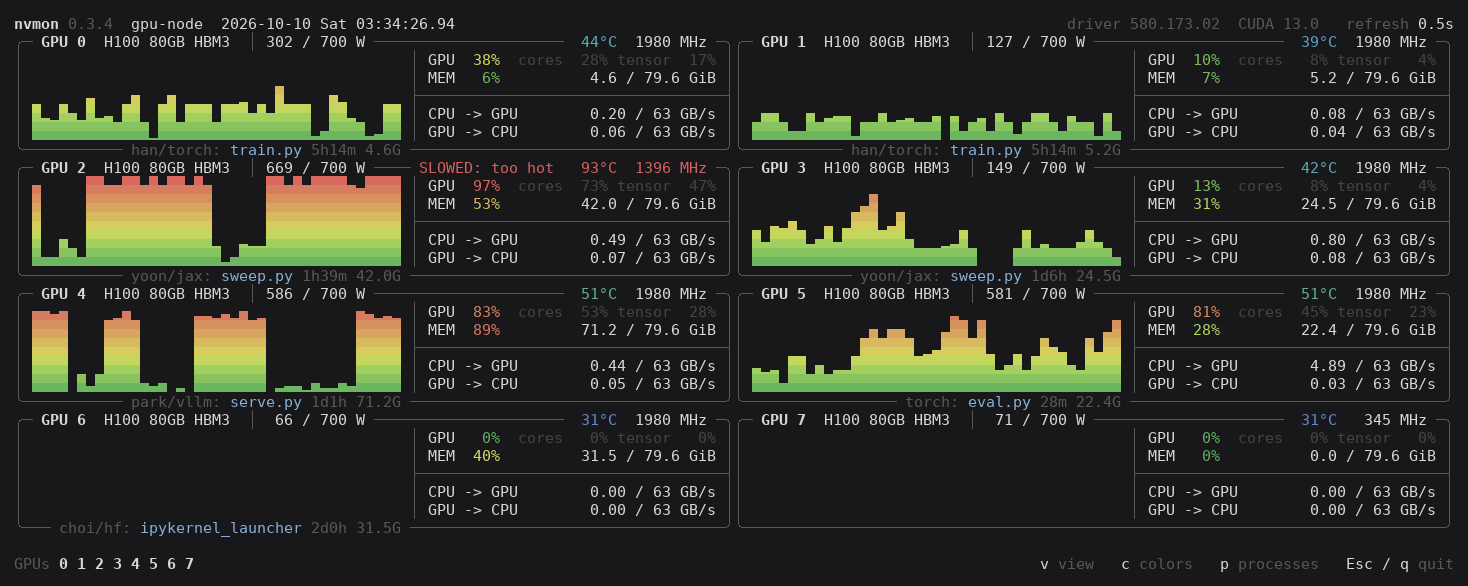
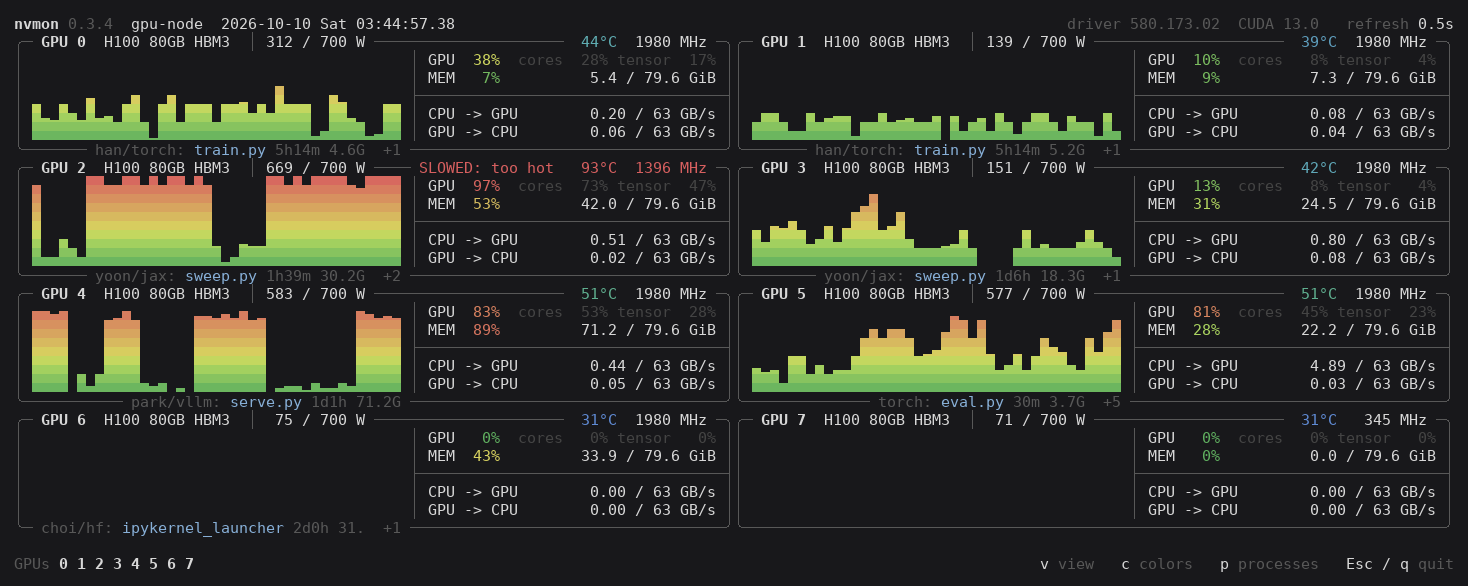
README's pictures: more processes on the GPUs; the themes on a GPU busy all along, as before
Each GPU of the made-up server holds several processes, each with its own memory (a checkpoint evaluated
beside a training run, a sweep's trials, an evaluation in shards, notebooks), so the processes view and the
list show what they are for. The themes are shown on a GPU busy from start to end, a wall of each theme's
colors, as the pictures before showed them.

diff --git a/docs/demo.py b/docs/demo.py
@@ -86,15 +86,15 @@ KINDS = {phases: (0.7, 0.45), blocks: (0.74, 0.48), wavering: (0.55, 0.28), burs
 
 class Scripted(nvmon.Gpu):
     """An H100 whose readings come from a script, not a driver: `kind` of work (with `shape`, its arguments)
-    using `mem` GiB for `procs`; `hot`: held back by heat."""
+    for `procs`, which hold their memory; `hot`: held back by heat."""
 
-    def __init__(self, index, kind, mem, procs, hot=False, **shape):
+    def __init__(self, index, kind, procs, hot=False, **shape):
         self.index, self.name = index, "H100 80GB HBM3"
         self.history, self.memory = deque(maxlen=nvmon.HISTORY), deque(maxlen=nvmon.HISTORY)
         self.sample = self.now = None
         self.pcie_max_gen, self.pcie_max_width, self.has_activity = 5, 16, True
         self.utils = kind(random.Random(index), **shape)
-        self.kind, self.mem, self.procs, self.hot = kind, mem, procs, hot
+        self.kind, self.procs, self.hot = kind, procs, hot
         self.rng, self.tick, self.temp = random.Random(index * 7 + 3), 0, 31.0
 
     def poll(self, detail=False):
@@ -103,40 +103,49 @@ class Scripted(nvmon.Gpu):
         # It warms and cools slowly; held back by heat, until it has cooled
         self.temp += (31 + (0.42 * u + 28 * self.hot) * (u > 0) - self.temp) * 0.06
         cores, tensor = KINDS[self.kind]
-        mem = self.mem + self.rng.uniform(-0.05, 0.05) if self.mem else 0.0
+        held = sum(p.mem for p in self.procs)
         busy = bool(self.procs)
         self.sample = nvmon.Sample(
             util=u, temp=round(self.temp), fan=None, power_limit=700,
             power=min(700, 72 + 6.2 * u + self.rng.uniform(-8, 8)) if busy else 70 + self.rng.uniform(-3, 3),
             clock=(1350 + self.rng.randint(-60, 60) if self.hot else 1980) if busy else 345,
-            mem_used=mem, mem_total=79.6, pcie_width=16,
+            mem_used=held + self.rng.uniform(-0.05, 0.05) if busy else 0.0, mem_total=79.6, pcie_width=16,
             tx=(0.02 + 0.06 * self.rng.random()) * 1e9 * (u > 0),
             rx=((6 if self.kind is wavering else 0.5) * u / 100 + 0.05 * self.rng.random()) * 1e9 * (u > 0),
             cores=cores * u + self.rng.uniform(0, 2) * (u > 0), tensor=tensor * u,
             slowdown=("SLOWED: too hot", nvmon.ALERT) if self.hot and busy else None,
-            processes=[p._replace(mem=mem / len(self.procs)) for p in self.procs],
-            process_util={p.pid: u / len(self.procs) for p in self.procs} if detail else None)
+            processes=self.procs,
+            process_util={p.pid: u * p.mem / held for p in self.procs} if detail else None)  # the bigger, the busier
 
 
-def proc(pid, name, owner, env, minutes, args, job=None, launcher=None):
-    """A process `minutes` old; `owner` None for ours."""
-    return nvmon.Process(pid, name, name + " " + args, 0, owner, env, Clock.now - 60 * minutes, job or pid, launcher)
+def proc(pid, name, owner, env, minutes, mem, args, job=None, launcher=None):
+    """A process `minutes` old holding `mem` GiB; `owner` None for ours."""
+    return nvmon.Process(pid, name, name + " " + args, mem, owner, env, Clock.now - 60 * minutes, job or pid,
+                         launcher)
 
 
 def server():
     """The eight GPUs, and the four the GIF shows: han's training on 0-1 (busy, then less so; low and broken),
-    yoon's sweeps on 2-3 (one in big blocks, on a GPU held back by heat); a model being served, our evaluation
-    waiting on its data loader, a notebook holding memory, and one idle."""
-    han = [proc(241801 + k, "train.py", "han", "torch", 312, "--config configs/train.yaml", 241800, "torchrun")
-           for k in range(2)]
-    gpus = [Scripted(0, phases, 4.6, han[:1], segments=[(190, 93, 6, 0.03), (200, 34, 9, 0.08)]),
-            Scripted(1, phases, 5.2, han[1:], segments=[(400, 20, 8, 0.15)]),
-            Scripted(2, blocks, 42.0, [proc(287700, "sweep.py", "yoon", "jax", 97, "--lr 1e-4")], hot=True),
-            Scripted(3, wavering, 24.5, [proc(270500, "sweep.py", "yoon", "jax", 1800, "--lr 3e-4")], center=35),
-            Scripted(4, bursts, 71.2, [proc(198733, "serve.py", "park", "vllm", 1520, "--model llama-3-8b")]),
-            Scripted(5, wavering, 22.4, [proc(325017, "eval.py", None, "torch", 26, "--config configs/eval.yaml")]),
-            Scripted(6, idle, 31.5, [proc(287390, "ipykernel_launcher", "choi", "hf", 2900, "-f kernel.json")]),
-            Scripted(7, idle, 0, [])]
+    with a checkpoint being evaluated and someone's notebook beside it; yoon's sweeps on 2-3 (one in big blocks,
+    on a GPU held back by heat); a model being served, our evaluation in shards waiting on its data loader,
+    notebooks holding memory, and one idle."""
+    han = [proc(241801 + k, "train.py", "han", "torch", 312, mem, "--config configs/train.yaml", 241800, "torchrun")
+           for k, mem in enumerate((4.6, 5.2))]
+    sweep = [proc(pid, "sweep.py", "yoon", "jax", minutes, mem, "--lr " + lr) for pid, minutes, mem, lr in
+             ((287700, 97, 30.2, "1e-4"), (287731, 41, 6.9, "2e-4"), (287765, 12, 4.9, "5e-4"),
+              (270500, 1800, 18.3, "3e-4"), (270544, 1680, 6.2, "3e-5"))]
+    checkpoint = proc(330112, "eval_ckpt.py", "han", "torch", 3, 0.8, "--ckpt runs/step_42000")
+    notebook = proc(301877, "ipykernel_launcher", "kang", "torch", 95, 2.1, "-f kernel-2.json")
+    shards = [proc(325017 + k, "eval.py", None, "torch", 28 - k // 2, 3.7, "--shard {}/6".format(k)) for k in range(6)]
+    gpus = [Scripted(0, phases, han[:1] + [checkpoint], segments=[(190, 93, 6, 0.03), (200, 34, 9, 0.08)]),
+            Scripted(1, phases, han[1:] + [notebook], segments=[(400, 20, 8, 0.15)]),
+            Scripted(2, blocks, sweep[:3], hot=True),
+            Scripted(3, wavering, sweep[3:], center=35),
+            Scripted(4, bursts, [proc(198733, "serve.py", "park", "vllm", 1520, 71.2, "--model llama-3-8b")]),
+            Scripted(5, wavering, shards),
+            Scripted(6, idle, [proc(287390, "ipykernel_launcher", "choi", "hf", 2900, 31.5, "-f kernel.json"),
+                               proc(287455, "ipykernel_launcher", "choi", "hf", 300, 2.4, "-f kernel-1.json")]),
+            Scripted(7, idle, [])]
     return gpus, (0, 1, 2, 3)
 
 
@@ -364,12 +373,12 @@ def main():
         setup(view)
         save(picture(view.screen(gpus, cols, rows, nvmon.header(cols, 0.5, driver), None), cols, rows, fonts), here,
              name)
-    # The themes on GPU 2's sweep, idle to full and back, without the heat to warn of
-    calm = Scripted(2, blocks, 42.0, gpus[2].procs)
+    # The themes on a GPU busy all along: its graph a wall of the theme's colors, bottom to top, ragged at the top
+    busy = Scripted(0, phases, gpus[0].procs, segments=[(TICKS, 88, 8, 0)])
     for _ in range(TICKS):
-        calm.poll()
-        calm.frame()
-    save(gallery(calm, fonts), here, "themes.png")
+        busy.poll()
+        busy.frame()
+    save(gallery(busy, fonts), here, "themes.png")
 
 
 if __name__ == "__main__":
